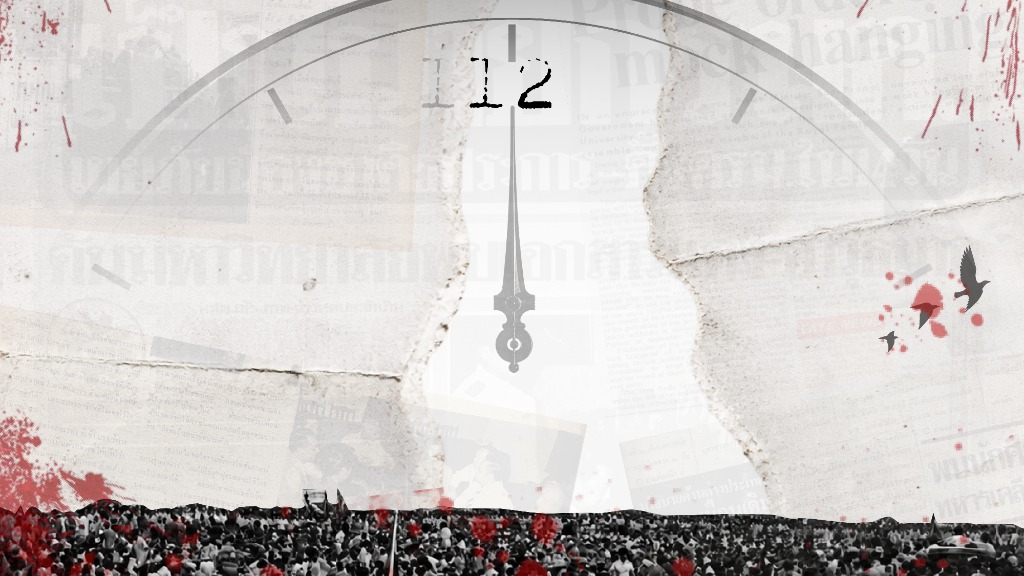
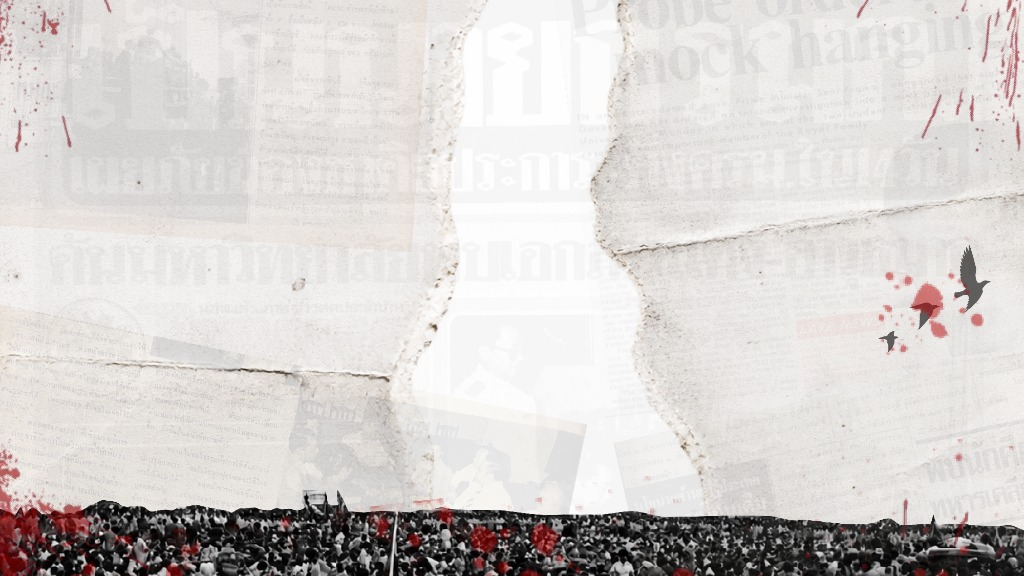
Update background artwork to clean-center version

diff --git a/style.css b/style.css
@@ -51,9 +51,9 @@ body::before {
   content: '';
   position: fixed;
   inset: 0;
-  background: #ffffff url('assets/bg.jpg?v=1') no-repeat center center;
+  background: #ffffff url('assets/bg.jpg?v=2') no-repeat center center;
   background-size: cover;
-  opacity: 0.18;
+  opacity: 0.22;
   pointer-events: none;
   z-index: 0;
 }
@@ -70,9 +70,9 @@ body::before {
 .landing-bg {
   position: fixed;
   inset: 0;
-  background: url('assets/bg.jpg?v=1') no-repeat center center;
+  background: url('assets/bg.jpg?v=2') no-repeat center center;
   background-size: cover;
-  opacity: 0.22;
+  opacity: 0.26;
   pointer-events: none;
   z-index: 0;
 }

diff --git a/index.html b/index.html
@@ -12,7 +12,7 @@
   <link rel="preconnect" href="https://fonts.gstatic.com" crossorigin />
   <link href="https://fonts.googleapis.com/css2?family=Sarabun:wght@300;400;500;600;700&family=Playfair+Display:ital,wght@0,700;1,700&display=swap" rel="stylesheet" />
   <script src="assets/qrcodejs.min.js"></script>
-  <link rel="stylesheet" href="style.css?v=2.4" />
+  <link rel="stylesheet" href="style.css?v=2.5" />
 </head>
 <body>
 
